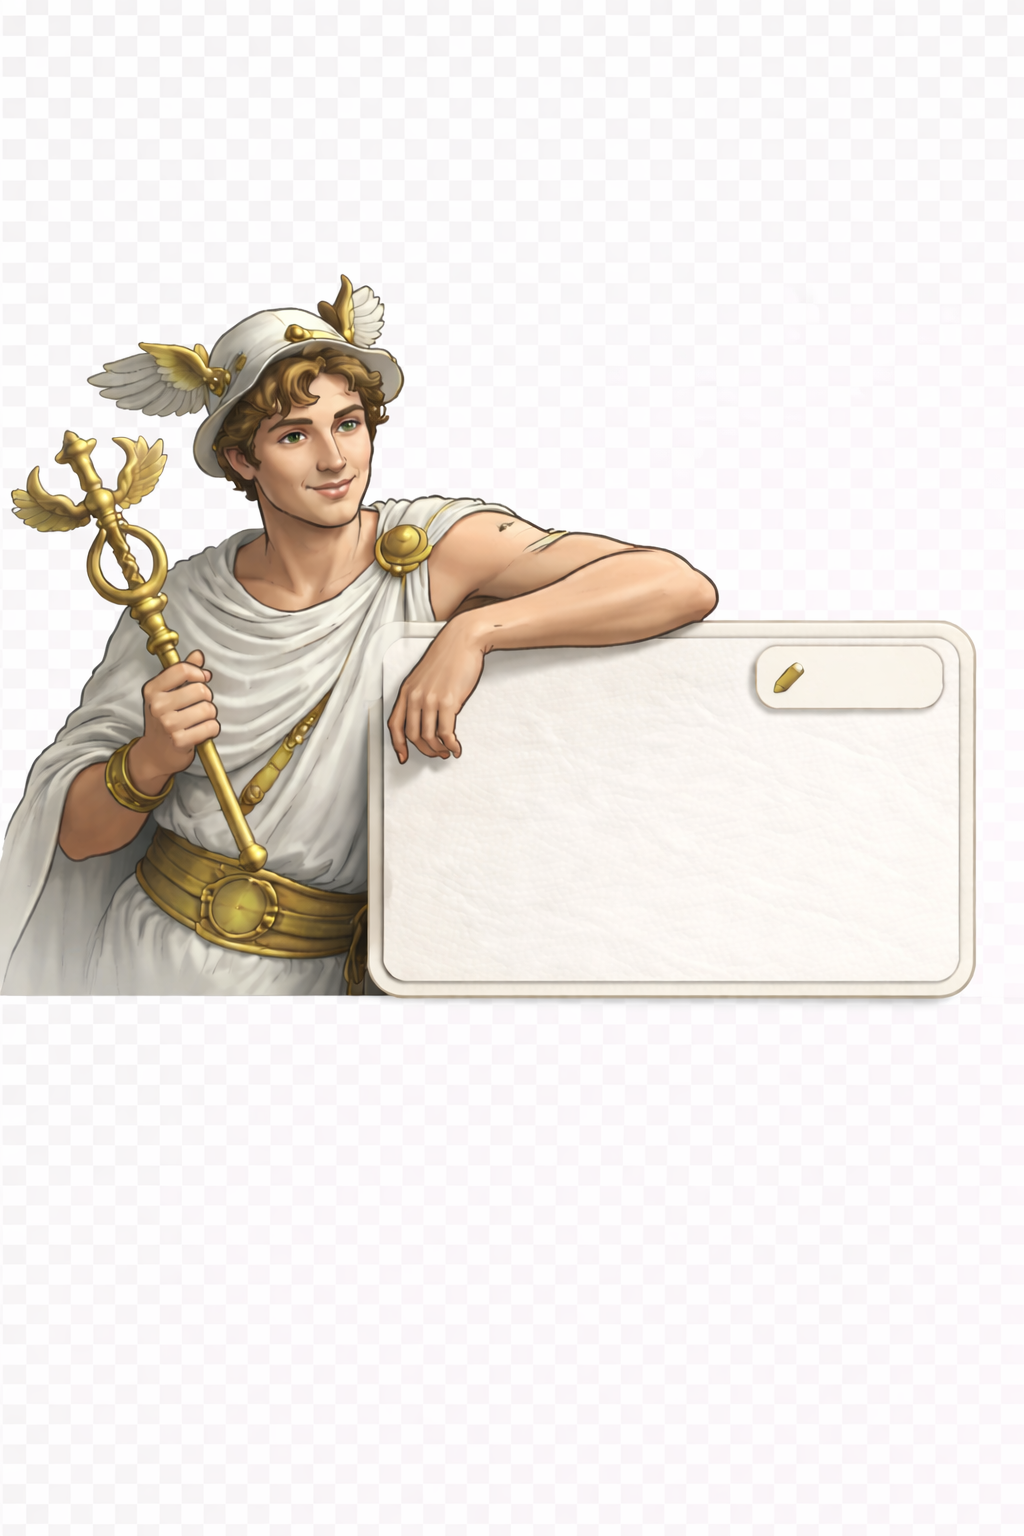
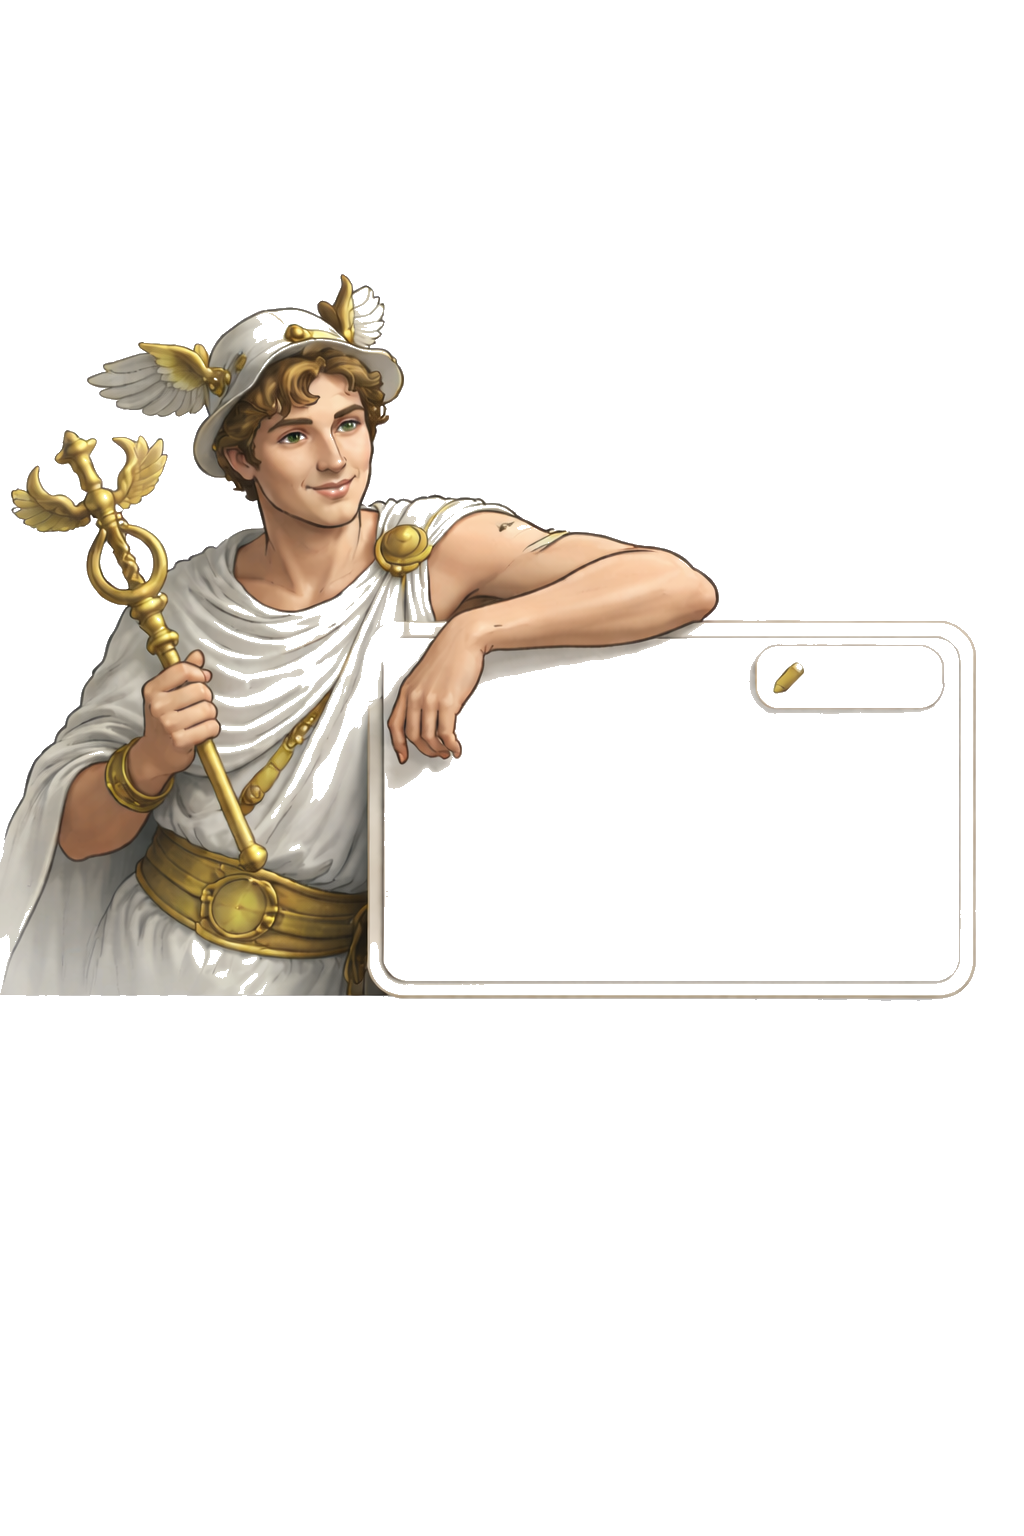
update

diff --git a/components/WalletFull.tsx b/components/WalletFull.tsx
@@ -47,6 +47,21 @@ const FRAME_SOFT = "rounded-[28px] border border-[#e5d6bd] bg-white/70";
 const PENDING_PROMO_CODE_KEY = "pending_promo_code";
 const PROMO_FLASH_SUCCESS_KEY = "promo_flash_success";
 const PROMO_FLASH_ERROR_KEY = "promo_flash_error";
+const WALLET_HERMES_LAYOUT_KEY = "wallet_hermes_layout_v1";
+
+type WalletHermesLayout = {
+  widthPercent: number;
+  heightPx: number;
+  offsetX: number;
+  offsetY: number;
+};
+
+const DEFAULT_WALLET_HERMES_LAYOUT: WalletHermesLayout = {
+  widthPercent: 100,
+  heightPx: 440,
+  offsetX: 0,
+  offsetY: 0,
+};
 
 function getStoredPromoCode() {
   if (typeof window === "undefined") return "";
@@ -65,6 +80,33 @@ function readAndClearPromoFlash(key: string) {
   return value;
 }
 
+
+
+function clamp(value: number, min: number, max: number) {
+  return Math.min(max, Math.max(min, value));
+}
+
+function readWalletHermesLayout(): WalletHermesLayout {
+  if (typeof window === "undefined") return DEFAULT_WALLET_HERMES_LAYOUT;
+  try {
+    const raw = window.localStorage.getItem(WALLET_HERMES_LAYOUT_KEY);
+    if (!raw) return DEFAULT_WALLET_HERMES_LAYOUT;
+    const parsed = JSON.parse(raw) as Partial<WalletHermesLayout>;
+    return {
+      widthPercent: clamp(Number(parsed.widthPercent ?? DEFAULT_WALLET_HERMES_LAYOUT.widthPercent), 70, 150),
+      heightPx: clamp(Number(parsed.heightPx ?? DEFAULT_WALLET_HERMES_LAYOUT.heightPx), 280, 760),
+      offsetX: clamp(Number(parsed.offsetX ?? DEFAULT_WALLET_HERMES_LAYOUT.offsetX), -220, 220),
+      offsetY: clamp(Number(parsed.offsetY ?? DEFAULT_WALLET_HERMES_LAYOUT.offsetY), -220, 220),
+    };
+  } catch {
+    return DEFAULT_WALLET_HERMES_LAYOUT;
+  }
+}
+
+function storeWalletHermesLayout(layout: WalletHermesLayout) {
+  if (typeof window === "undefined") return;
+  window.localStorage.setItem(WALLET_HERMES_LAYOUT_KEY, JSON.stringify(layout));
+}
 
 function reasonLabel(reason: string): string {
   switch (reason) {
@@ -101,6 +143,8 @@ export default function WalletPage() {
   const [subscriptionBusyKey, setSubscriptionBusyKey] = useState<string | null>(null);
   const [subscriptionError, setSubscriptionError] = useState<string | null>(null);
   const [subscriptionInfo, setSubscriptionInfo] = useState<string | null>(null);
+  const [walletHermesLayout, setWalletHermesLayout] = useState<WalletHermesLayout>(DEFAULT_WALLET_HERMES_LAYOUT);
+  const [walletHermesConstructorOpen, setWalletHermesConstructorOpen] = useState(false);
 
   useEffect(() => {
     setPromoCode(getStoredPromoCode());
@@ -110,6 +154,7 @@ export default function WalletPage() {
     if (promoErrorText) setPromoError(promoErrorText);
 
     if (typeof window !== "undefined") {
+      setWalletHermesLayout(readWalletHermesLayout());
       const url = new URL(window.location.href);
       if (url.searchParams.get("plan_paid") === "1") {
         setSubscriptionInfo("Оплата тарифа принята. Проверяем активацию и обновляем лимит проектов…");
@@ -189,6 +234,7 @@ export default function WalletPage() {
       await loadSubscriptionStatus();
     } catch (e: any) {
       if (typeof window !== "undefined") {
+      setWalletHermesLayout(readWalletHermesLayout());
         window.localStorage.setItem(PENDING_PROMO_CODE_KEY, normalizedCode);
       }
       setPromoError(e?.message || "Не удалось активировать промокод");
@@ -310,6 +356,25 @@ export default function WalletPage() {
   }
 
 
+  function updateWalletHermesLayout(patch: Partial<WalletHermesLayout>) {
+    setWalletHermesLayout((current) => {
+      const next = {
+        widthPercent: clamp(Number(patch.widthPercent ?? current.widthPercent), 70, 150),
+        heightPx: clamp(Number(patch.heightPx ?? current.heightPx), 280, 760),
+        offsetX: clamp(Number(patch.offsetX ?? current.offsetX), -220, 220),
+        offsetY: clamp(Number(patch.offsetY ?? current.offsetY), -220, 220),
+      };
+      storeWalletHermesLayout(next);
+      return next;
+    });
+  }
+
+  function resetWalletHermesLayout() {
+    setWalletHermesLayout(DEFAULT_WALLET_HERMES_LAYOUT);
+    storeWalletHermesLayout(DEFAULT_WALLET_HERMES_LAYOUT);
+  }
+
+
   return (
     <Layout title="Кошелёк">
       {!user ? (
@@ -415,7 +480,7 @@ export default function WalletPage() {
                           disabled={!!subscriptionBusyKey || (!isUnlimited && Number(wallet?.balance_kopeks ?? 0) < plan.monthlyPriceRub * 100)}
                           onClick={() => buyMonthlyPlanFromWallet(plan.key)}
                         >
-                          {subscriptionBusyKey === `wallet:${plan.key}` ? "Покупаю с баланса…" : `Купить с баланса · ${plan.monthlyPriceRub.toLocaleString("ru-RU")} ₽`}
+                          {subscriptionBusyKey === `wallet:${plan.key}` ? "Покупаю…" : `С баланса · ${plan.monthlyPriceRub.toLocaleString("ru-RU")} ₽`}
                         </button>
                         {PAYMENTS_UI_ENABLED ? (
                           <button
@@ -428,7 +493,7 @@ export default function WalletPage() {
                           </button>
                         ) : (
                           <div className="rounded-[20px] border border-[#e5d6bd] bg-[#fffaf2] px-3 py-2 text-xs text-slate-600">
-                            Онлайн-оплата сейчас выключена, но тариф можно купить прямо с баланса кошелька.
+                            Онлайн-оплата выключена. Тариф можно взять с баланса.
                           </div>
                         )}
                         {!isUnlimited && Number(wallet?.balance_kopeks ?? 0) < plan.monthlyPriceRub * 100 ? (
@@ -465,17 +530,67 @@ export default function WalletPage() {
 
           <div className="grid gap-4">
             <div className={FRAME_CARD + " overflow-hidden p-0"}>
-              <div className="bg-[linear-gradient(180deg,rgba(255,250,242,0.98)_0%,rgba(246,238,226,0.98)_100%)]">
+              <div className="border-b border-[#e5d6bd] px-5 py-4">
+                <div className="flex flex-wrap items-center justify-between gap-3">
+                  <div>
+                    <div className="text-[11px] uppercase tracking-[0.22em] text-[#9a7a4b]">Гермес в кошельке</div>
+                    <div className="mt-1 text-sm text-slate-700">Можно подогнать размер и посадку картинки под твой макет.</div>
+                  </div>
+                  <div className="flex flex-wrap gap-2">
+                    <button type="button" className="btn btn-secondary" onClick={() => setWalletHermesConstructorOpen((v) => !v)}>
+                      {walletHermesConstructorOpen ? "Скрыть конструктор" : "Конструктор"}
+                    </button>
+                    <button type="button" className="btn btn-secondary" onClick={resetWalletHermesLayout}>
+                      Сбросить
+                    </button>
+                  </div>
+                </div>
+                {walletHermesConstructorOpen ? (
+                  <div className="mt-4 grid gap-3 md:grid-cols-2">
+                    <div className={FRAME_SOFT + " p-3"}>
+                      <div className="text-xs font-medium uppercase tracking-[0.16em] text-[#9a7a4b]">Размер</div>
+                      <div className="mt-3 space-y-3 text-sm text-slate-700">
+                        <label className="block">
+                          <div className="mb-1 flex items-center justify-between"><span>Ширина</span><span>{walletHermesLayout.widthPercent}%</span></div>
+                          <input type="range" min="70" max="150" step="1" value={walletHermesLayout.widthPercent} onChange={(e) => updateWalletHermesLayout({ widthPercent: Number(e.target.value) })} className="w-full" />
+                        </label>
+                        <label className="block">
+                          <div className="mb-1 flex items-center justify-between"><span>Высота блока</span><span>{walletHermesLayout.heightPx}px</span></div>
+                          <input type="range" min="280" max="760" step="10" value={walletHermesLayout.heightPx} onChange={(e) => updateWalletHermesLayout({ heightPx: Number(e.target.value) })} className="w-full" />
+                        </label>
+                      </div>
+                    </div>
+                    <div className={FRAME_SOFT + " p-3"}>
+                      <div className="text-xs font-medium uppercase tracking-[0.16em] text-[#9a7a4b]">Положение</div>
+                      <div className="mt-3 space-y-3 text-sm text-slate-700">
+                        <label className="block">
+                          <div className="mb-1 flex items-center justify-between"><span>Сдвиг по X</span><span>{walletHermesLayout.offsetX}px</span></div>
+                          <input type="range" min="-220" max="220" step="2" value={walletHermesLayout.offsetX} onChange={(e) => updateWalletHermesLayout({ offsetX: Number(e.target.value) })} className="w-full" />
+                        </label>
+                        <label className="block">
+                          <div className="mb-1 flex items-center justify-between"><span>Сдвиг по Y</span><span>{walletHermesLayout.offsetY}px</span></div>
+                          <input type="range" min="-220" max="220" step="2" value={walletHermesLayout.offsetY} onChange={(e) => updateWalletHermesLayout({ offsetY: Number(e.target.value) })} className="w-full" />
+                        </label>
+                      </div>
+                    </div>
+                  </div>
+                ) : null}
+              </div>
+              <div className="relative overflow-hidden bg-[linear-gradient(180deg,rgba(255,250,242,0.98)_0%,rgba(246,238,226,0.98)_100%)]" style={{ height: `${walletHermesLayout.heightPx}px` }}>
                 <img
                   src="/wallet-hermes-guide.png"
                   alt="Гермес с табличкой"
-                  className="w-full object-contain"
+                  className="absolute left-0 top-0 max-w-none select-none"
+                  style={{
+                    width: `${walletHermesLayout.widthPercent}%`,
+                    transform: `translate(${walletHermesLayout.offsetX}px, ${walletHermesLayout.offsetY}px)`,
+                  }}
                 />
               </div>
               <div className="border-t border-[#e5d6bd] px-5 py-4">
-                <div className="text-[11px] uppercase tracking-[0.22em] text-[#9a7a4b]">Навигация по кошельку</div>
+                <div className="text-[11px] uppercase tracking-[0.22em] text-[#9a7a4b]">Подсказка</div>
                 <div className="mt-2 text-sm text-slate-700">
-                  Оставил удобную старую логику страницы, а Гермеса добавил как визуальный якорь для тарифов, лимитов и действий.
+                  Прозрачный PNG уже подключён. В конструкторе можно растянуть блок, увеличить картинку и сместить её внутри рамки.
                 </div>
               </div>
             </div>
